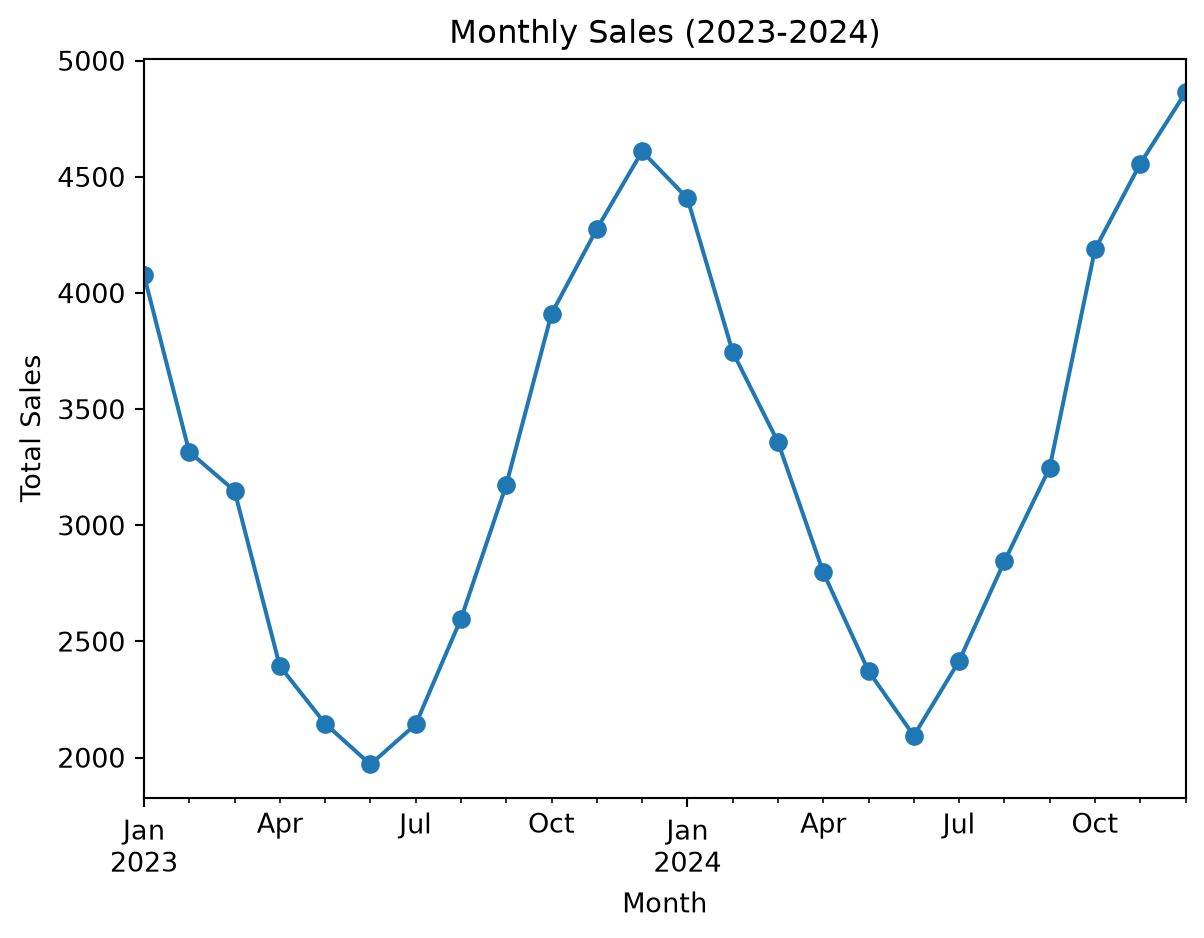
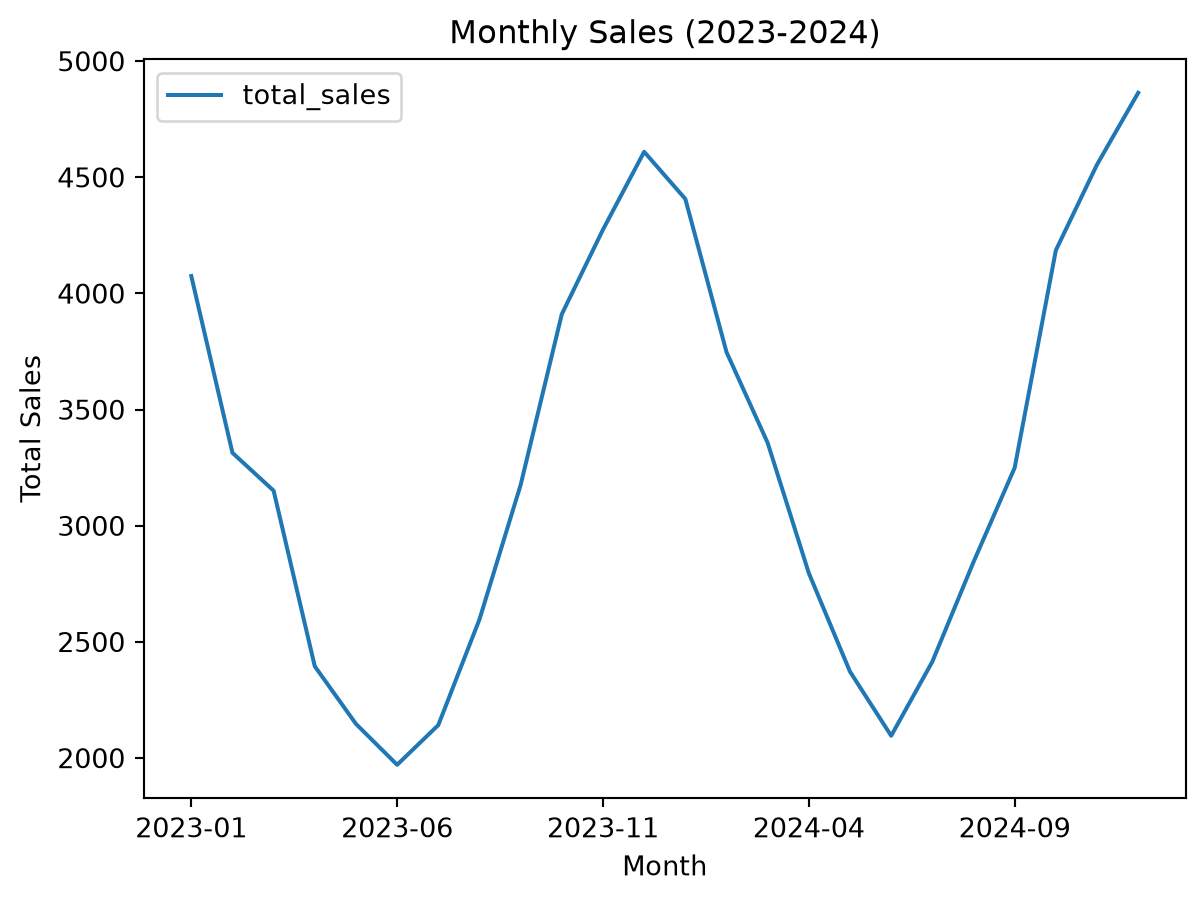
why does this matter

diff --git a/docs/Seasonal-Sales_Trends.html b/docs/Seasonal-Sales_Trends.html
@@ -166,7 +166,8 @@ pre > code.sourceCode > span > a:first-child::before { text-decoration: underlin
   <li><a href="#building-the-chart" id="toc-building-the-chart" class="nav-link" data-scroll-target="#building-the-chart">Building the Chart</a>
   <ul class="collapse">
   <li><a href="#imports" id="toc-imports" class="nav-link" data-scroll-target="#imports">Imports</a></li>
-  <li><a href="#making-the-data" id="toc-making-the-data" class="nav-link" data-scroll-target="#making-the-data">Making the Data</a></li>
+  <li><a href="#sales-dataframe" id="toc-sales-dataframe" class="nav-link" data-scroll-target="#sales-dataframe">Sales Dataframe</a></li>
+  <li><a href="#looking-at-the-data" id="toc-looking-at-the-data" class="nav-link" data-scroll-target="#looking-at-the-data">Looking at the Data</a></li>
   <li><a href="#wrangling" id="toc-wrangling" class="nav-link" data-scroll-target="#wrangling">Wrangling</a></li>
   <li><a href="#visualization" id="toc-visualization" class="nav-link" data-scroll-target="#visualization">Visualization</a></li>
   </ul></li>
@@ -207,38 +208,35 @@ pre > code.sourceCode > span > a:first-child::before { text-decoration: underlin
 <li><strong>numpy</strong> for making up our practice data</li>
 <li><strong>matplotlib</strong> for the chart</li>
 </ul>
-<p>I recommend just pulling data from H&amp;M fashion Dataset on Kaggle or a similar website, and this should come with retail datat already. If you want to follow along with my code the data I used is on my GitHub.</p>
+<p>I just pulled the data from H&amp;M fashion Dataset on Kaggle or a similar website and this should come with retail data already. If you want to follow along with my code the data I used is on my GitHub.</p>
 </section>
 <section id="building-the-chart" class="level2">
 <h2 class="anchored" data-anchor-id="building-the-chart">Building the Chart</h2>
 <section id="imports" class="level3">
 <h3 class="anchored" data-anchor-id="imports">Imports</h3>
-<div id="47a31bfb" class="cell" data-execution_count="1">
+<div id="62557b6f" class="cell" data-execution_count="1">
 <div class="code-copy-outer-scaffold"><div class="sourceCode cell-code" id="cb1"><pre class="sourceCode python code-with-copy"><code class="sourceCode python"><span id="cb1-1"><a href="#cb1-1" aria-hidden="true" tabindex="-1"></a><span class="im">import</span> numpy <span class="im">as</span> np</span>
 <span id="cb1-2"><a href="#cb1-2" aria-hidden="true" tabindex="-1"></a><span class="im">import</span> pandas <span class="im">as</span> pd</span>
-<span id="cb1-3"><a href="#cb1-3" aria-hidden="true" tabindex="-1"></a><span class="im">import</span> matplotlib.pyplot <span class="im">as</span> plt</span></code></pre></div><button title="Copy to Clipboard" class="code-copy-button"><i class="bi"></i></button></div>
+<span id="cb1-3"><a href="#cb1-3" aria-hidden="true" tabindex="-1"></a><span class="im">import</span> matplotlib.pyplot <span class="im">as</span> plt</span>
+<span id="cb1-4"><a href="#cb1-4" aria-hidden="true" tabindex="-1"></a></span>
+<span id="cb1-5"><a href="#cb1-5" aria-hidden="true" tabindex="-1"></a><span class="co"># Load sales data</span></span>
+<span id="cb1-6"><a href="#cb1-6" aria-hidden="true" tabindex="-1"></a>sales <span class="op">=</span> pd.read_csv(<span class="st">"/Users/sarahcerny/Downloads/sales.csv"</span>)</span></code></pre></div><button title="Copy to Clipboard" class="code-copy-button"><i class="bi"></i></button></div>
 </div>
 </section>
-<section id="making-the-data" class="level3">
-<h3 class="anchored" data-anchor-id="making-the-data">Making the Data</h3>
-<p>The fake sales have three pieces: a <strong>baseline</strong> (what the store normally sells in a day), a <strong>seasonal bump</strong> (higher in winter, lower in summer), and <strong>noise</strong> (random daily ups and downs, because real life is messy). I also added a slow upward <strong>trend</strong> so it looks like the store is growing.</p>
-<div id="c65c9eb4" class="cell" data-execution_count="2">
-<div class="code-copy-outer-scaffold"><div class="sourceCode cell-code" id="cb2"><pre class="sourceCode python code-with-copy"><code class="sourceCode python"><span id="cb2-1"><a href="#cb2-1" aria-hidden="true" tabindex="-1"></a>rng <span class="op">=</span> np.random.default_rng(<span class="dv">386</span>)  <span class="co"># seed so you get the same data I did</span></span>
-<span id="cb2-2"><a href="#cb2-2" aria-hidden="true" tabindex="-1"></a></span>
-<span id="cb2-3"><a href="#cb2-3" aria-hidden="true" tabindex="-1"></a>dates <span class="op">=</span> pd.date_range(<span class="st">"2023-01-01"</span>, <span class="st">"2024-12-31"</span>, freq<span class="op">=</span><span class="st">"D"</span>)</span>
-<span id="cb2-4"><a href="#cb2-4" aria-hidden="true" tabindex="-1"></a>month <span class="op">=</span> dates.month</span>
-<span id="cb2-5"><a href="#cb2-5" aria-hidden="true" tabindex="-1"></a></span>
-<span id="cb2-6"><a href="#cb2-6" aria-hidden="true" tabindex="-1"></a>base <span class="op">=</span> <span class="dv">100</span></span>
-<span id="cb2-7"><a href="#cb2-7" aria-hidden="true" tabindex="-1"></a>seasonal <span class="op">=</span> <span class="dv">40</span> <span class="op">*</span> np.cos(<span class="dv">2</span> <span class="op">*</span> np.pi <span class="op">*</span> (month <span class="op">-</span> <span class="dv">12</span>) <span class="op">/</span> <span class="dv">12</span>)  <span class="co"># peaks in December</span></span>
-<span id="cb2-8"><a href="#cb2-8" aria-hidden="true" tabindex="-1"></a>trend <span class="op">=</span> np.linspace(<span class="dv">0</span>, <span class="dv">15</span>, <span class="bu">len</span>(dates))</span>
-<span id="cb2-9"><a href="#cb2-9" aria-hidden="true" tabindex="-1"></a>noise <span class="op">=</span> rng.normal(<span class="dv">0</span>, <span class="dv">10</span>, <span class="bu">len</span>(dates))</span>
-<span id="cb2-10"><a href="#cb2-10" aria-hidden="true" tabindex="-1"></a></span>
-<span id="cb2-11"><a href="#cb2-11" aria-hidden="true" tabindex="-1"></a>df <span class="op">=</span> pd.DataFrame({</span>
-<span id="cb2-12"><a href="#cb2-12" aria-hidden="true" tabindex="-1"></a>    <span class="st">"date"</span>: dates,</span>
-<span id="cb2-13"><a href="#cb2-13" aria-hidden="true" tabindex="-1"></a>    <span class="st">"sales"</span>: (base <span class="op">+</span> seasonal <span class="op">+</span> trend <span class="op">+</span> noise).<span class="bu">round</span>(<span class="dv">2</span>),</span>
-<span id="cb2-14"><a href="#cb2-14" aria-hidden="true" tabindex="-1"></a>})</span>
-<span id="cb2-15"><a href="#cb2-15" aria-hidden="true" tabindex="-1"></a>df.head()</span></code></pre></div><button title="Copy to Clipboard" class="code-copy-button"><i class="bi"></i></button></div>
-<div class="cell-output cell-output-display" data-execution_count="2">
+<section id="sales-dataframe" class="level3">
+<h3 class="anchored" data-anchor-id="sales-dataframe">Sales Dataframe</h3>
+<p>The sales have three pieces:</p>
+<ul>
+<li>a <strong>baseline</strong>: what the store normally sells in a day</li>
+<li>a <strong>seasonal bump</strong>: higher in winter lower in summer</li>
+<li><strong>noise</strong>: random daily ups and downs because real life is messy</li>
+</ul>
+</section>
+<section id="looking-at-the-data" class="level3">
+<h3 class="anchored" data-anchor-id="looking-at-the-data">Looking at the Data</h3>
+<div id="a2f39c84" class="cell" data-execution_count="2">
+<div class="code-copy-outer-scaffold"><div class="sourceCode cell-code" id="cb2"><pre class="sourceCode python code-with-copy"><code class="sourceCode python"><span id="cb2-1"><a href="#cb2-1" aria-hidden="true" tabindex="-1"></a>sales.head()</span></code></pre></div><button title="Copy to Clipboard" class="code-copy-button"><i class="bi"></i></button></div>
+<div class="cell-output cell-output-display" data-execution_count="6">
 <div>
 
 
@@ -247,6 +245,7 @@ pre > code.sourceCode > span > a:first-child::before { text-decoration: underlin
 <tr class="header">
 <th data-quarto-table-cell-role="th"></th>
 <th data-quarto-table-cell-role="th">date</th>
+<th data-quarto-table-cell-role="th">year_month</th>
 <th data-quarto-table-cell-role="th">sales</th>
 </tr>
 </thead>
@@ -254,27 +253,32 @@ pre > code.sourceCode > span > a:first-child::before { text-decoration: underlin
 <tr class="odd">
 <th data-quarto-table-cell-role="th">0</th>
 <td>2023-01-01</td>
-<td>118.12</td>
+<td>2023-01</td>
+<td>118</td>
 </tr>
 <tr class="even">
 <th data-quarto-table-cell-role="th">1</th>
 <td>2023-01-02</td>
-<td>148.29</td>
+<td>2023-01</td>
+<td>148</td>
 </tr>
 <tr class="odd">
 <th data-quarto-table-cell-role="th">2</th>
 <td>2023-01-03</td>
-<td>138.04</td>
+<td>2023-01</td>
+<td>138</td>
 </tr>
 <tr class="even">
 <th data-quarto-table-cell-role="th">3</th>
 <td>2023-01-04</td>
-<td>130.84</td>
+<td>2023-01</td>
+<td>131</td>
 </tr>
 <tr class="odd">
 <th data-quarto-table-cell-role="th">4</th>
 <td>2023-01-05</td>
-<td>131.27</td>
+<td>2023-01</td>
+<td>131</td>
 </tr>
 </tbody>
 </table>
@@ -282,56 +286,189 @@ pre > code.sourceCode > span > a:first-child::before { text-decoration: underlin
 </div>
 </div>
 </div>
-<p><code>df.head()</code> shows the first five rows: one row per day with that day’s sales. The whole table has 731 rows, which is way too many to look at one by one, so that’s our next problem.</p>
+<p>This shows the first five rows one row per day with that day’s sales The whole table has 731 rows which is way too many to look at one by one so that’s our next problem.</p>
 </section>
 <section id="wrangling" class="level3">
 <h3 class="anchored" data-anchor-id="wrangling">Wrangling</h3>
-<p>Daily sales are super bouncy, so it’s hard to see any pattern. Adding them up by month fixes that:</p>
-<div id="9d01daad" class="cell" data-execution_count="3">
-<div class="code-copy-outer-scaffold"><div class="sourceCode cell-code" id="cb3"><pre class="sourceCode python code-with-copy"><code class="sourceCode python"><span id="cb3-1"><a href="#cb3-1" aria-hidden="true" tabindex="-1"></a>monthly <span class="op">=</span> df.groupby(df[<span class="st">"date"</span>].dt.to_period(<span class="st">"M"</span>))[<span class="st">"sales"</span>].<span class="bu">sum</span>()</span>
-<span id="cb3-2"><a href="#cb3-2" aria-hidden="true" tabindex="-1"></a>monthly.head()</span></code></pre></div><button title="Copy to Clipboard" class="code-copy-button"><i class="bi"></i></button></div>
-<div class="cell-output cell-output-display" data-execution_count="3">
-<pre><code>date
-2023-01    4077.56
-2023-02    3316.28
-2023-03    3148.97
-2023-04    2393.76
-2023-05    2146.46
-Freq: M, Name: sales, dtype: float64</code></pre>
+<p>Daily sales are super bouncy so it’s hard to see any pattern adding them up by month fixes that. The main thing we need to do is group the rows by month and add up the sales in each group:</p>
+<div id="b301093f" class="cell" data-execution_count="3">
+<div class="code-copy-outer-scaffold"><div class="sourceCode cell-code" id="cb3"><pre class="sourceCode python code-with-copy"><code class="sourceCode python"><span id="cb3-1"><a href="#cb3-1" aria-hidden="true" tabindex="-1"></a>monthly_sales <span class="op">=</span> (</span>
+<span id="cb3-2"><a href="#cb3-2" aria-hidden="true" tabindex="-1"></a>    sales.groupby(<span class="st">"year_month"</span>, as_index<span class="op">=</span><span class="va">False</span>)</span>
+<span id="cb3-3"><a href="#cb3-3" aria-hidden="true" tabindex="-1"></a>    .agg(total_sales<span class="op">=</span>(<span class="st">"sales"</span>, <span class="st">"sum"</span>))</span>
+<span id="cb3-4"><a href="#cb3-4" aria-hidden="true" tabindex="-1"></a>)</span>
+<span id="cb3-5"><a href="#cb3-5" aria-hidden="true" tabindex="-1"></a></span>
+<span id="cb3-6"><a href="#cb3-6" aria-hidden="true" tabindex="-1"></a>monthly_sales</span></code></pre></div><button title="Copy to Clipboard" class="code-copy-button"><i class="bi"></i></button></div>
+<div class="cell-output cell-output-display" data-execution_count="7">
+<div>
+
+
+<table class="dataframe caption-top table table-sm table-striped small" data-border="1">
+<thead>
+<tr class="header">
+<th data-quarto-table-cell-role="th"></th>
+<th data-quarto-table-cell-role="th">year_month</th>
+<th data-quarto-table-cell-role="th">total_sales</th>
+</tr>
+</thead>
+<tbody>
+<tr class="odd">
+<th data-quarto-table-cell-role="th">0</th>
+<td>2023-01</td>
+<td>4075</td>
+</tr>
+<tr class="even">
+<th data-quarto-table-cell-role="th">1</th>
+<td>2023-02</td>
+<td>3314</td>
+</tr>
+<tr class="odd">
+<th data-quarto-table-cell-role="th">2</th>
+<td>2023-03</td>
+<td>3151</td>
+</tr>
+<tr class="even">
+<th data-quarto-table-cell-role="th">3</th>
+<td>2023-04</td>
+<td>2395</td>
+</tr>
+<tr class="odd">
+<th data-quarto-table-cell-role="th">4</th>
+<td>2023-05</td>
+<td>2147</td>
+</tr>
+<tr class="even">
+<th data-quarto-table-cell-role="th">5</th>
+<td>2023-06</td>
+<td>1971</td>
+</tr>
+<tr class="odd">
+<th data-quarto-table-cell-role="th">6</th>
+<td>2023-07</td>
+<td>2142</td>
+</tr>
+<tr class="even">
+<th data-quarto-table-cell-role="th">7</th>
+<td>2023-08</td>
+<td>2597</td>
+</tr>
+<tr class="odd">
+<th data-quarto-table-cell-role="th">8</th>
+<td>2023-09</td>
+<td>3176</td>
+</tr>
+<tr class="even">
+<th data-quarto-table-cell-role="th">9</th>
+<td>2023-10</td>
+<td>3911</td>
+</tr>
+<tr class="odd">
+<th data-quarto-table-cell-role="th">10</th>
+<td>2023-11</td>
+<td>4275</td>
+</tr>
+<tr class="even">
+<th data-quarto-table-cell-role="th">11</th>
+<td>2023-12</td>
+<td>4610</td>
+</tr>
+<tr class="odd">
+<th data-quarto-table-cell-role="th">12</th>
+<td>2024-01</td>
+<td>4407</td>
+</tr>
+<tr class="even">
+<th data-quarto-table-cell-role="th">13</th>
+<td>2024-02</td>
+<td>3748</td>
+</tr>
+<tr class="odd">
+<th data-quarto-table-cell-role="th">14</th>
+<td>2024-03</td>
+<td>3357</td>
+</tr>
+<tr class="even">
+<th data-quarto-table-cell-role="th">15</th>
+<td>2024-04</td>
+<td>2796</td>
+</tr>
+<tr class="odd">
+<th data-quarto-table-cell-role="th">16</th>
+<td>2024-05</td>
+<td>2372</td>
+</tr>
+<tr class="even">
+<th data-quarto-table-cell-role="th">17</th>
+<td>2024-06</td>
+<td>2096</td>
+</tr>
+<tr class="odd">
+<th data-quarto-table-cell-role="th">18</th>
+<td>2024-07</td>
+<td>2415</td>
+</tr>
+<tr class="even">
+<th data-quarto-table-cell-role="th">19</th>
+<td>2024-08</td>
+<td>2844</td>
+</tr>
+<tr class="odd">
+<th data-quarto-table-cell-role="th">20</th>
+<td>2024-09</td>
+<td>3250</td>
+</tr>
+<tr class="even">
+<th data-quarto-table-cell-role="th">21</th>
+<td>2024-10</td>
+<td>4186</td>
+</tr>
+<tr class="odd">
+<th data-quarto-table-cell-role="th">22</th>
+<td>2024-11</td>
+<td>4555</td>
+</tr>
+<tr class="even">
+<th data-quarto-table-cell-role="th">23</th>
+<td>2024-12</td>
+<td>4864</td>
+</tr>
+</tbody>
+</table>
+
 </div>
 </div>
-<p>The main thing we need to do here is group the rows by month and add up the sales in each group. Here’s what each part does:</p>
+</div>
 <ul>
-<li><code>df["date"].dt.to_period("M")</code>: turns each date into its month, so January 5th and January 20th both become “2023-01”</li>
-<li><code>df.groupby(...)</code>: puts all the rows from the same month into one group</li>
-<li><code>["sales"].sum()</code>: adds up the sales in each group</li>
+<li>sales.groupby(“year_month”): puts all the rows from the same month into one group</li>
+<li>.agg(total_sales=(“sales”, “sum”)): adds up the sales in each group and calls the new column total_sales</li>
 </ul>
-<p>Now we have 24 numbers instead of 731.</p>
+<p>Now we have 24 rows instead of 731: one total for each month.</p>
 </section>
 <section id="visualization" class="level3">
 <h3 class="anchored" data-anchor-id="visualization">Visualization</h3>
-<p>Now for the best part! Here’s the code, and then I’ll break it down.</p>
-<div id="28a5942b" class="cell" data-execution_count="4">
-<div class="code-copy-outer-scaffold"><div class="sourceCode cell-code" id="cb5"><pre class="sourceCode python code-with-copy"><code class="sourceCode python"><span id="cb5-1"><a href="#cb5-1" aria-hidden="true" tabindex="-1"></a>monthly.plot(kind<span class="op">=</span><span class="st">"line"</span>, marker<span class="op">=</span><span class="st">"o"</span>)</span>
-<span id="cb5-2"><a href="#cb5-2" aria-hidden="true" tabindex="-1"></a>plt.title(<span class="st">"Monthly Sales (2023-2024)"</span>)</span>
-<span id="cb5-3"><a href="#cb5-3" aria-hidden="true" tabindex="-1"></a>plt.xlabel(<span class="st">"Month"</span>)</span>
-<span id="cb5-4"><a href="#cb5-4" aria-hidden="true" tabindex="-1"></a>plt.ylabel(<span class="st">"Total Sales"</span>)</span>
-<span id="cb5-5"><a href="#cb5-5" aria-hidden="true" tabindex="-1"></a>plt.show()</span></code></pre></div><button title="Copy to Clipboard" class="code-copy-button"><i class="bi"></i></button></div>
+<p>Now for Visualization</p>
+<div id="e538dd0b" class="cell" data-execution_count="4">
+<div class="code-copy-outer-scaffold"><div class="sourceCode cell-code" id="cb4"><pre class="sourceCode python code-with-copy"><code class="sourceCode python"><span id="cb4-1"><a href="#cb4-1" aria-hidden="true" tabindex="-1"></a>monthly_sales.plot.line(</span>
+<span id="cb4-2"><a href="#cb4-2" aria-hidden="true" tabindex="-1"></a>    x<span class="op">=</span><span class="st">"year_month"</span>,</span>
+<span id="cb4-3"><a href="#cb4-3" aria-hidden="true" tabindex="-1"></a>    y<span class="op">=</span><span class="st">"total_sales"</span>,</span>
+<span id="cb4-4"><a href="#cb4-4" aria-hidden="true" tabindex="-1"></a>    title<span class="op">=</span><span class="st">"Monthly Sales (2023-2024)"</span>,</span>
+<span id="cb4-5"><a href="#cb4-5" aria-hidden="true" tabindex="-1"></a>    xlabel<span class="op">=</span><span class="st">"Month"</span>,</span>
+<span id="cb4-6"><a href="#cb4-6" aria-hidden="true" tabindex="-1"></a>    ylabel<span class="op">=</span><span class="st">"Total Sales"</span></span>
+<span id="cb4-7"><a href="#cb4-7" aria-hidden="true" tabindex="-1"></a>)</span></code></pre></div><button title="Copy to Clipboard" class="code-copy-button"><i class="bi"></i></button></div>
 <div class="cell-output cell-output-display">
 <div>
 <figure class="figure">
-<p><img src="Seasonal-Sales_Trends_files/figure-html/cell-5-output-1.png" alt="Line chart of monthly sales over two years, with a peak each winter and a dip each summer" width="602" height="469" class="figure-img"></p>
+<p><img src="Seasonal-Sales_Trends_files/figure-html/cell-5-output-1.png" width="602" height="451" class="figure-img"></p>
 </figure>
 </div>
 </div>
 </div>
 <ul>
-<li><code>monthly.plot(kind="line", marker="o")</code>: draws the line, with a dot for each month</li>
-<li><code>plt.title()</code>, <code>plt.xlabel()</code>, <code>plt.ylabel()</code>: label the chart so people know what they’re looking at</li>
-<li><code>plt.show()</code>: displays it</li>
+<li>.plot.line(): draws a line chart</li>
+<li><code>x="year_month"</code> and <code>y="total_sales"</code>: tell pandas which columns go on each axis</li>
+<li><code>title</code>, <code>xlabel</code>, and <code>ylabel</code>: label the chart so people know what they’re looking at</li>
 </ul>
 <p>You should see two big humps, one around each winter, with a dip in between. That’s the seasonality. The pattern repeats, so if it happened last December, it’s probably going to happen this December too.</p>
-<p>You might also notice the whole line drifts up over time. That’s the trend, and it’s different from seasonality. Seasonality goes up and down every year, while a trend keeps heading in one direction.</p>
+<p>You might also notice the whole line drifts up a little over time. That’s the trend, and it’s different from seasonality. Seasonality goes up and down every year, while a trend keeps heading in one direction.</p>
 </section>
 </section>
 <section id="why-this-matters" class="level2">
@@ -340,11 +477,11 @@ Freq: M, Name: sales, dtype: float64</code></pre>
 </section>
 <section id="wrapping-it-up" class="level2">
 <h2 class="anchored" data-anchor-id="wrapping-it-up">Wrapping It Up</h2>
-<p>In this tutorial, you should have learned how to turn a pile of daily sales into a chart that shows the seasons, using <code>groupby</code>, <code>.dt.to_period()</code>, and a simple line plot. Even if it looked intimidating at first, it’s really just grouping your data and plotting it.</p>
+<p>In this tutorial, you should have learned how to turn a pile of daily sales into a chart that shows the seasons, using <code>groupby</code>, <code>.agg()</code>, and <code>.plot.line()</code>. Even if it looked intimidating at first, it’s really just grouping your data and plotting it.</p>
 <p>Now that you know how to do it, here are some things to try:</p>
 <ul>
-<li>Change <code>"M"</code> to <code>"Q"</code> to group by quarter and see how the chart changes</li>
-<li>Make the seasonal bump bigger in the fake data and see how the chart reacts</li>
+<li>Change <code>"sum"</code> to <code>"mean"</code> to see average daily sales per month instead of the total</li>
+<li>Use <code>.sort_values("total_sales", ascending=False).head(3)</code> to find your three best months</li>
 <li>Try it on real data, like the H&amp;M dataset linked above</li>
 </ul>
 <p>Happy plotting!</p>
